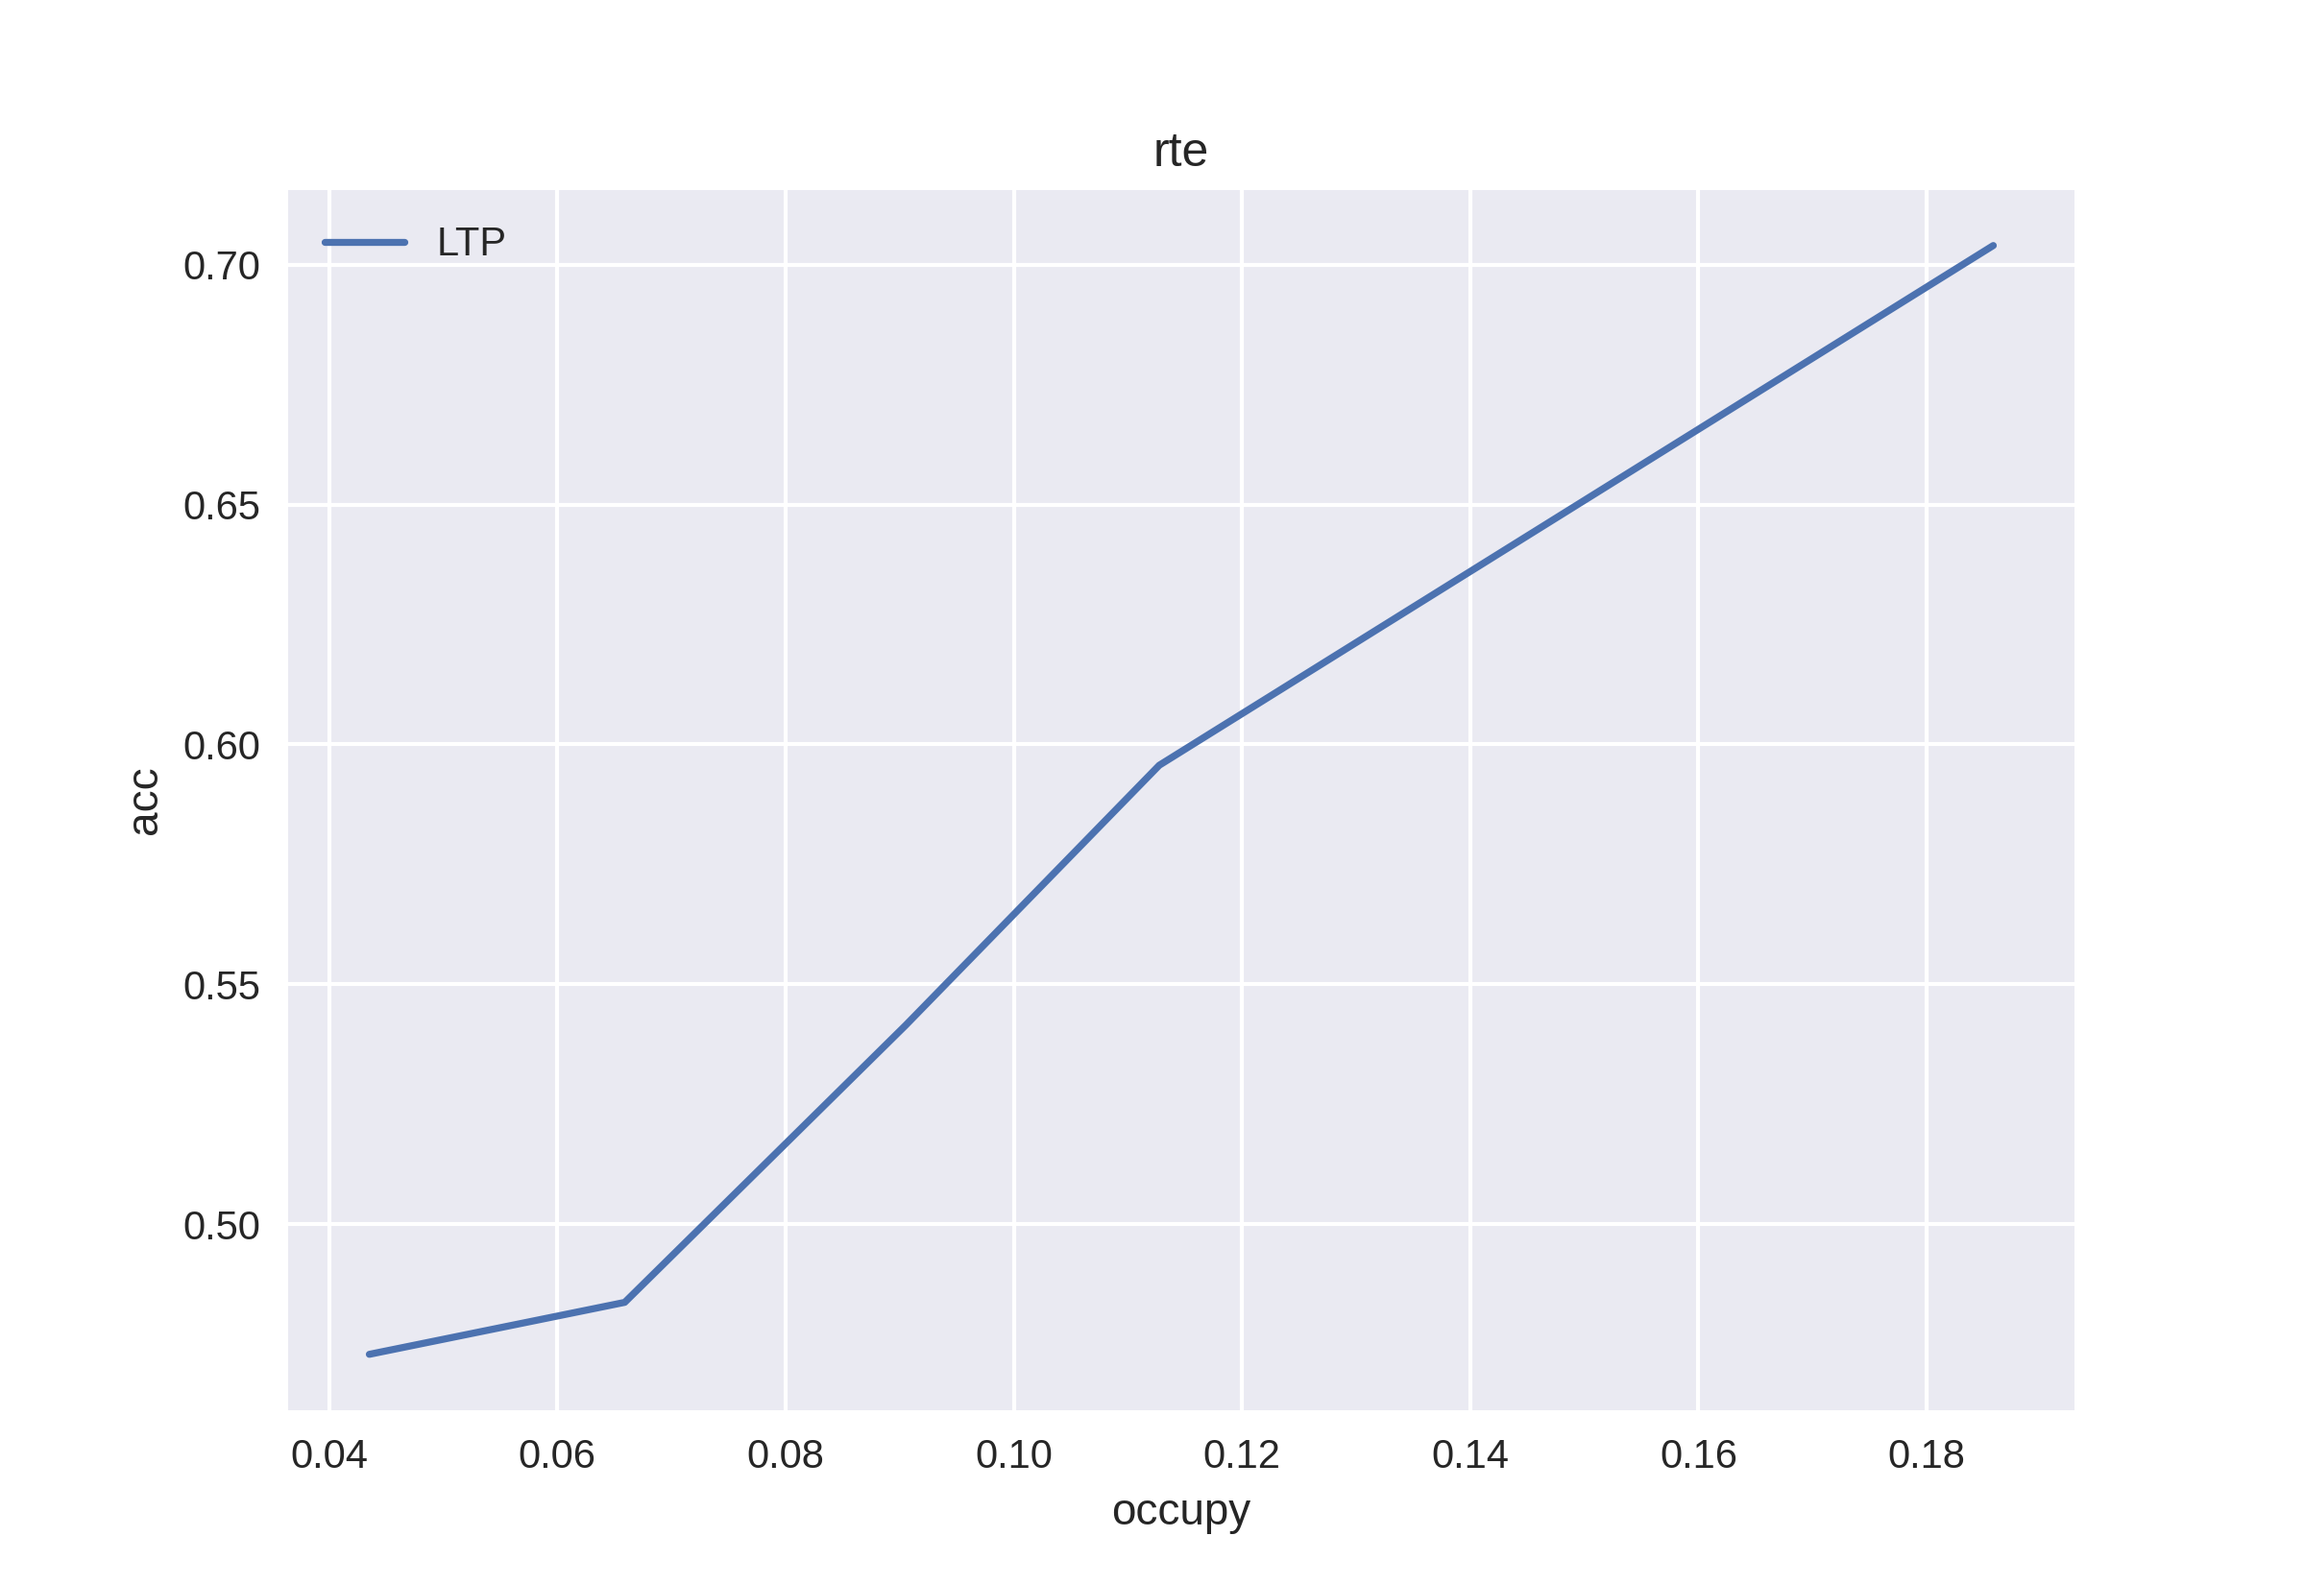
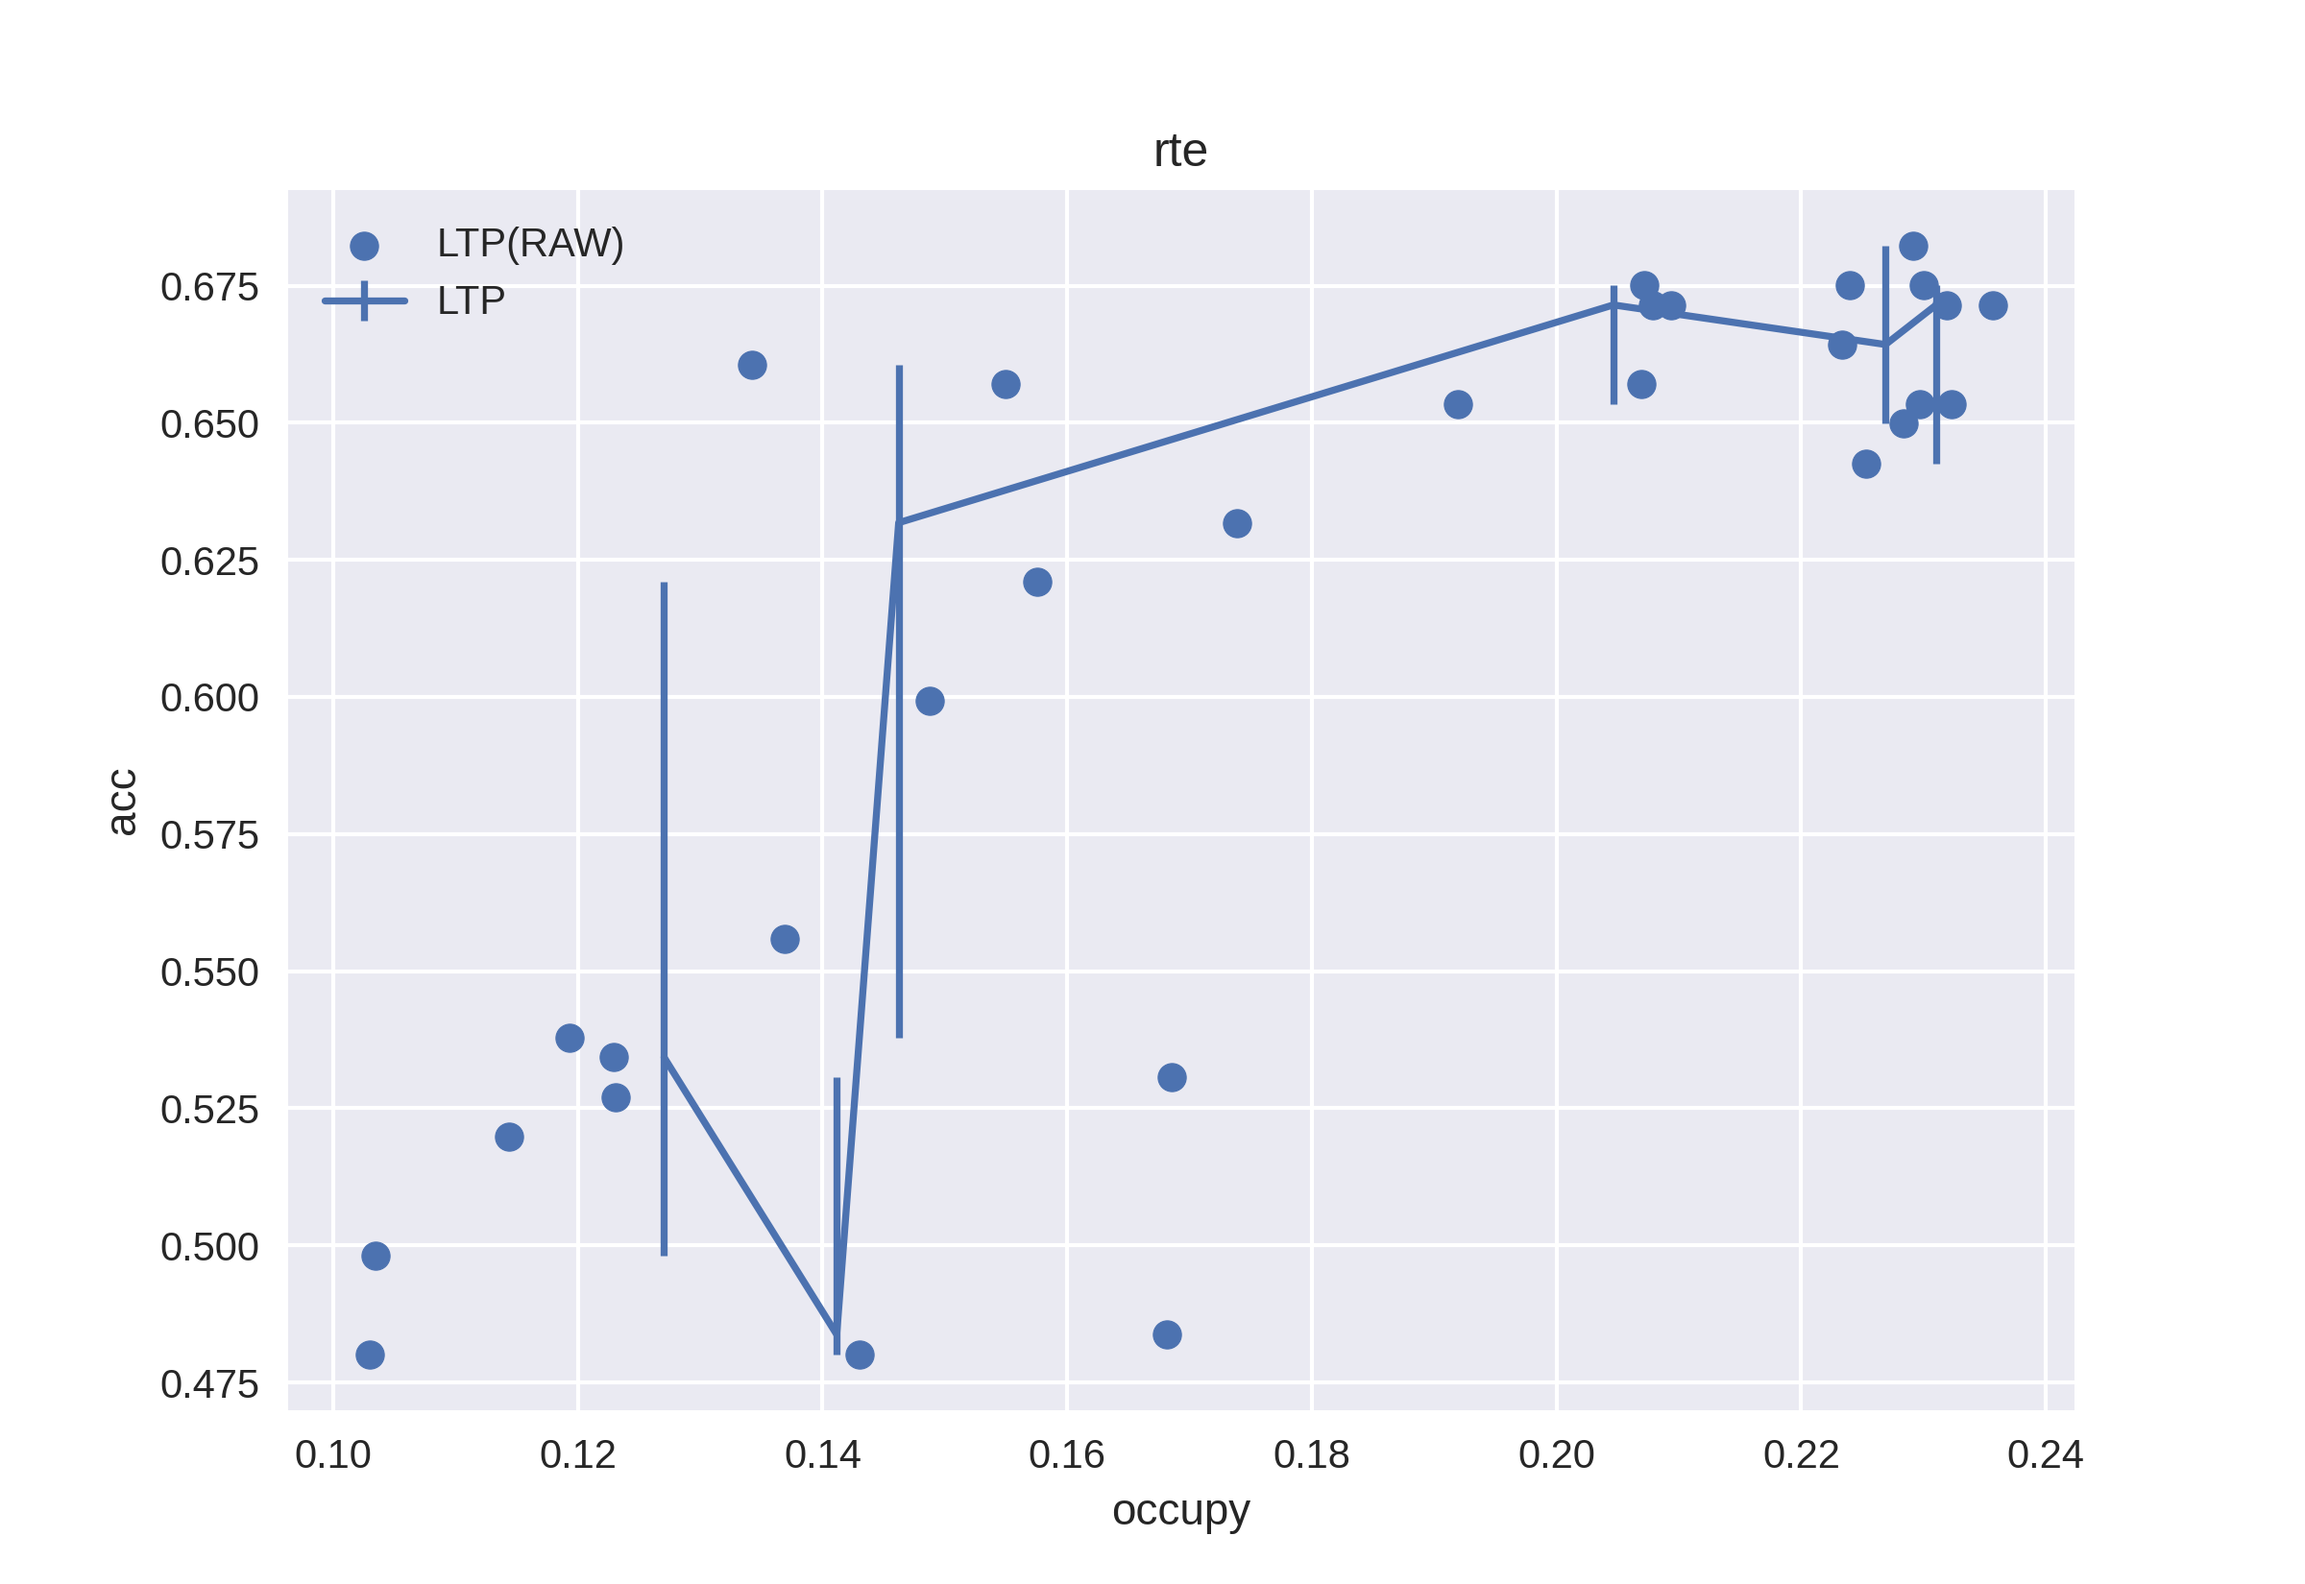
update ltp

diff --git a/trainer/ltp_trainer.py b/trainer/ltp_trainer.py
@@ -48,7 +48,7 @@ task_to_keys = {
 task_to_epochs = {
     "cola": 10,
     "mnli": 2,
-    "mrpc": 2,
+    "mrpc": 10,
     "qnli": 2,
     "qqp":  2,
     "rte":  10,
@@ -152,10 +152,11 @@ class LtpTrainer:
         print('Trainer:', dataset)
         self.seed()
         
+        self.enable_checkpointing = True
         self.enable_plot = enable_plot
         self.init_checkpoint = init_checkpoint
         self.checkpoint_name = checkpoint_name
-        self.lr = 5e-6
+        self.lr = 2e-5
         self.weight_decay = 0
         self.dataset = dataset
         if batch_size is None or batch_size <= 0:
@@ -197,15 +198,8 @@ class LtpTrainer:
         self.model_bert = self.model.bert
         self.model_classifier = self.model.classifier
         
-        self.sparse_bert = sparse.SparseBertForSequenceClassification(self.model.config)
-        self.sparse_bert.load_state_dict(self.model.state_dict(), strict=False)
-        self.sparse_bert.to(self.device).train()
-        self.sparse_bert.bert.set_ltp_prune_token(True)
-        self.sparse_bert.bert.set_ltp_prune_token_soft_pruning(True)
-        if self.world_size > 1:
-            self.sparse_bert = DDP(self.sparse_bert, device_ids=[device], find_unused_parameters=False)
-        else:
-            self.sparse_bert = MimicDDP(self.sparse_bert)
+        self.init_sparse_bert()
+        
         self.optimizer = self.get_optimizer(self.sparse_bert)
         self.scaler = torch.cuda.amp.GradScaler()
 
@@ -218,6 +212,29 @@ class LtpTrainer:
             print('Trainer: From pretrained checkpoint', self.init_checkpoint)
             self.load(self.init_checkpoint)
     
+    def init_sparse_bert(self):
+        self.sparse_bert_inner = sparse.SparseBertForSequenceClassification(self.model.config)
+        self.sparse_bert_inner.load_state_dict(self.model.state_dict(), strict=False)
+        self.sparse_bert_inner.to(self.device).train()
+        self.sparse_bert_inner.bert.set_ltp_prune_token(True)
+        self.sparse_bert_inner.bert.set_ltp_prune_token_soft_pruning(True)
+        if self.world_size > 1:
+            self.sparse_bert = DDP(self.sparse_bert_inner, device_ids=[self.device], find_unused_parameters=False)
+        else:
+            self.sparse_bert = MimicDDP(self.sparse_bert_inner)
+    
+    def reset_train(self):
+        self.seed()
+
+        self.epoch = 0
+        self.last_metric_score = None
+        self.last_loss = None
+        
+        self.init_sparse_bert()
+
+        self.optimizer = self.get_optimizer(self.sparse_bert)
+        self.scaler = torch.cuda.amp.GradScaler()
+
     def load_train_dataset(self):
         self.train_dataloader = get_dataloader(
             self.dataset, self.tokenizer, self.batch_size)
@@ -444,7 +461,7 @@ class LtpTrainer:
         if self.best_test_loss >= valid_loss:
             if self.dataset != 'bert':
                 self.best_test_loss = valid_loss # always save
-            self.save()
+            if self.enable_checkpointing: self.save()
 
     def main(self):
         self.best_test_loss = 987654321

diff --git a/main/ltp_glue_plot.py b/main/ltp_glue_plot.py
@@ -4,8 +4,10 @@ from matplotlib import pyplot as plt
 import trainer.ltp_trainer as ltp
 
 # options
-lambdas = [0.001, 0.01, 0.1, 1.0, 5.0]
+lambdas = [0.001, 0.01, 0.1, 1.0, 5.0, 25.0]
 temperatures = [1e-4, 2e-4, 5e-4, 1e-3, 2e-3]
+# lambdas = [0.001, 0.01, ]
+# temperatures = [1e-4, 2e-4 ]
 
 def main():
     parser = argparse.ArgumentParser()
@@ -24,41 +26,56 @@ def main():
     occupies = []
     metrics = []
     metric_name = None
+    trainer = ltp.LtpTrainer(subset, batch_size=args.batch_size)
+    trainer.enable_checkpointing = False
     for il, ld in enumerate(lambdas):
         metrics_t = []
+        occupies_t = []
         for it, temperature in enumerate(temperatures):
-            trainer = ltp.LtpTrainer(subset, batch_size=args.batch_size)
+            trainer.reset_train()
             trainer.sparse_bert.module.ltp_lambda = ld
-            trainer.sparse_bert.module.set_ltp_temperature = temperature
+            trainer.sparse_bert.module.bert.set_ltp_temperature(temperature)
             trainer.main()
 
             ltp.sparse.benchmark_reset()
             result = trainer.eval_sparse_model(show_message=False)
             occupy = ltp.sparse.benchmark_get_average('ltp_occupy')
-            occupies.append(occupy)
+            occupies_t.append(occupy)
             metric, metric_name = get_score(result)
             metrics_t.append(metric)
 
             print(f'[{il*len(temperatures)+it+1}/{len(lambdas)*len(temperatures)}] ({ld}/{temperature}) evaluate sparse net. score: {metric}, occupy: {occupy}')
+        occupies.append(occupies_t)
         metrics.append(metrics_t)
 
     plt.style.use("seaborn")
     plt.clf()
-    def lcenter(l): return l[len(l)//2]
+    def lavg(l): return sum(l) / len(l)
+    def lmed(l): return sorted(l)[len(l)//2]
     points = [(
-        occupies[i],
-        lcenter(metrics[i]),
-        lcenter(metrics[i])-min(metrics[i]),
-        max(metrics[i])-lcenter(metrics[i])
+        lavg(occupies[i]),
+        lmed(metrics[i]),
+        lmed(metrics[i])-min(metrics[i]),
+        max(metrics[i])-lmed(metrics[i])
     ) for i in range(len(occupies))]
     points = sorted(points, key = lambda x: x[0])
     xs = [p[0] for p in points]
     ys = [p[1] for p in points]
     es = [
-        (p[2] for p in points),
-        (p[3] for p in points)
+        list(p[2] for p in points),
+        list(p[3] for p in points)
     ]
-    plt.errorbar(xs, ys, yerr=es, label='LTP', uplims=True, lolims=True)
+    #print(ys, es)
+    plt.errorbar(xs, ys, yerr=es, label='LTP')
+    xs = []
+    ys = []
+    for i in range(len(occupies)):
+        ots = occupies[i]
+        mts = metrics[i]
+        for j in range(len(ots)):
+            xs.append(ots[j])
+            ys.append(mts[j])
+    plt.scatter(xs, ys, label='LTP(RAW)')
     plt.xlabel('occupy')
     plt.ylabel(metric_name)
     plt.title(subset)
